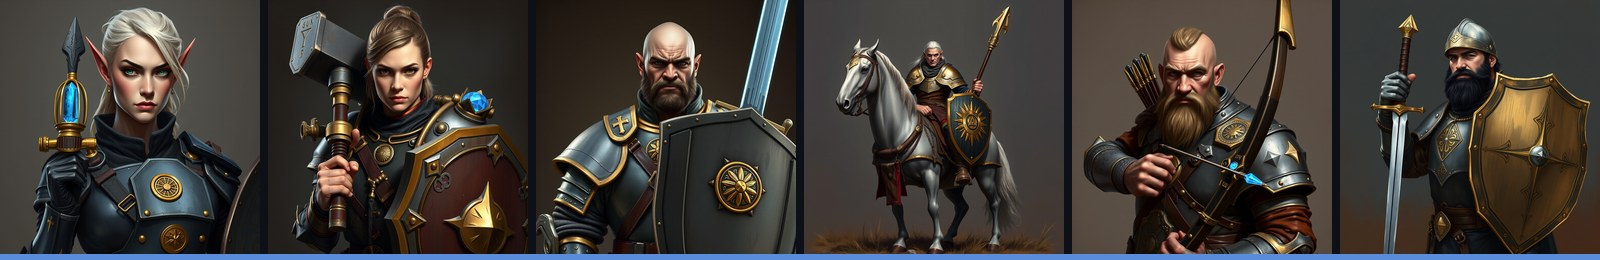
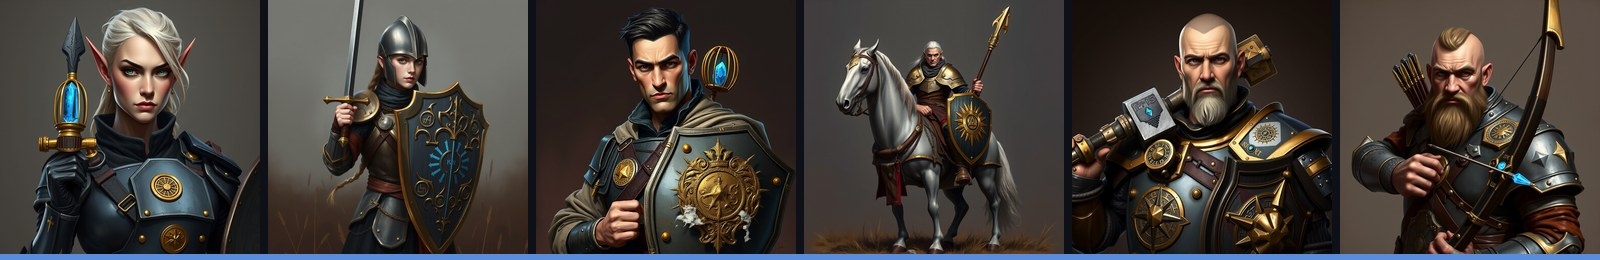
Pick faction portraits that carry each faction's look
Chosen from approved portraits against art/FACTION_CULTURE.md: Concord
aether crystals and heraldry, Directive uniform kit and gear roundel,
Fervent glowing rune tattoos and passion, Forewarned beast helms in
black iron and violet. The skull-faced archer is gone, since the
Forewarned brief rules out skulls.

Provider: opus (Claude Opus 5)

diff --git a/README.md b/README.md
@@ -47,16 +47,16 @@ the in-game **Roster** viewer.
 
 ## 🛡 The four factions
 
-**The Concord**: magic and machine in balance. *Order, ambition, and the throne that binds them.*
+**The Concord**: magic and machine in balance. Blue aether crystals in gold armatures, Gothic plate, and a senate of many houses and many races. *Order, ambition, and the throne that binds them.*
 <img src="assets/concord_roster.jpg" alt="Concord unit portraits" width="100%" />
 
-**The Directive**: technology and discipline. Goggled pike blocks, rifles, cannon and iron constructs.
+**The Directive**: technology and discipline. Every soldier is issued the same kit, stamped from one die and marked with the brass gear-wheel. Pike blocks, shield lines, rifles and iron constructs.
 <img src="assets/directive_roster.jpg" alt="Directive unit portraits" width="100%" />
 
-**The Fervent**: magic, volatile and proud. *Emotion as weapon. Faith as armor.*
+**The Fervent**: magic, volatile and proud. Their rune tattoos hold and channel their power, and their armor is partial because their skin carries the magic. *Emotion as weapon. Faith as armor.*
 <img src="assets/fervent_roster.jpg" alt="Fervent unit portraits" width="100%" />
 
-**The Forewarned**: dark and experimental. *Outcasts who remember how the world almost ended.*
+**The Forewarned**: dark and experimental. Blackened iron, eagle-beast helms that hide every face, and a violet glow. *Outcasts who remember how the world almost ended.*
 <img src="assets/forewarned_roster.jpg" alt="Forewarned unit portraits" width="100%" />
 
 ## 🖼 Concept art
